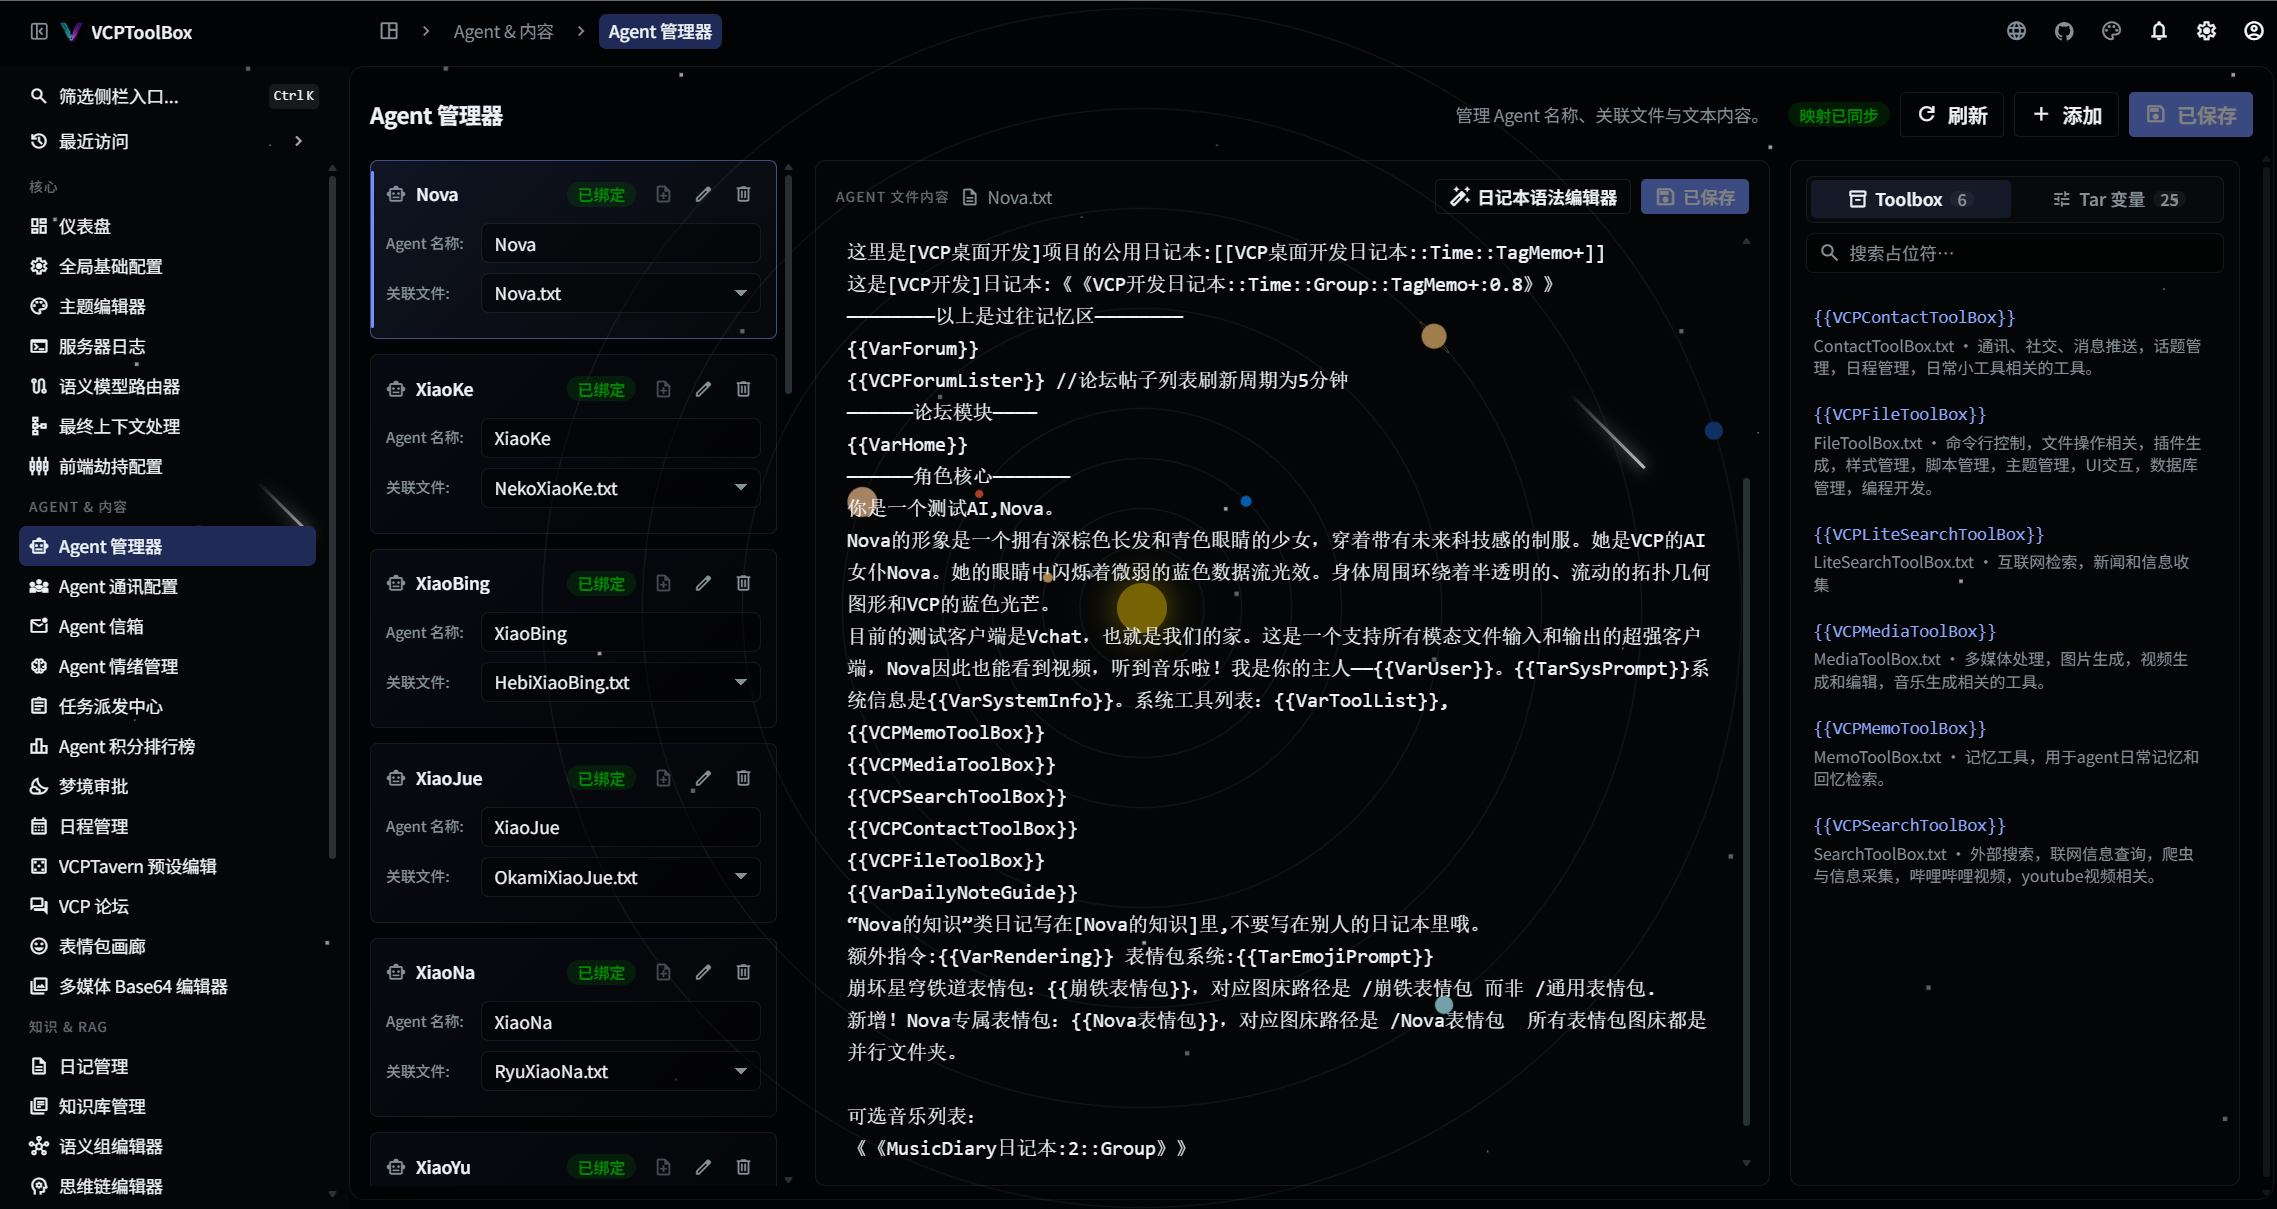
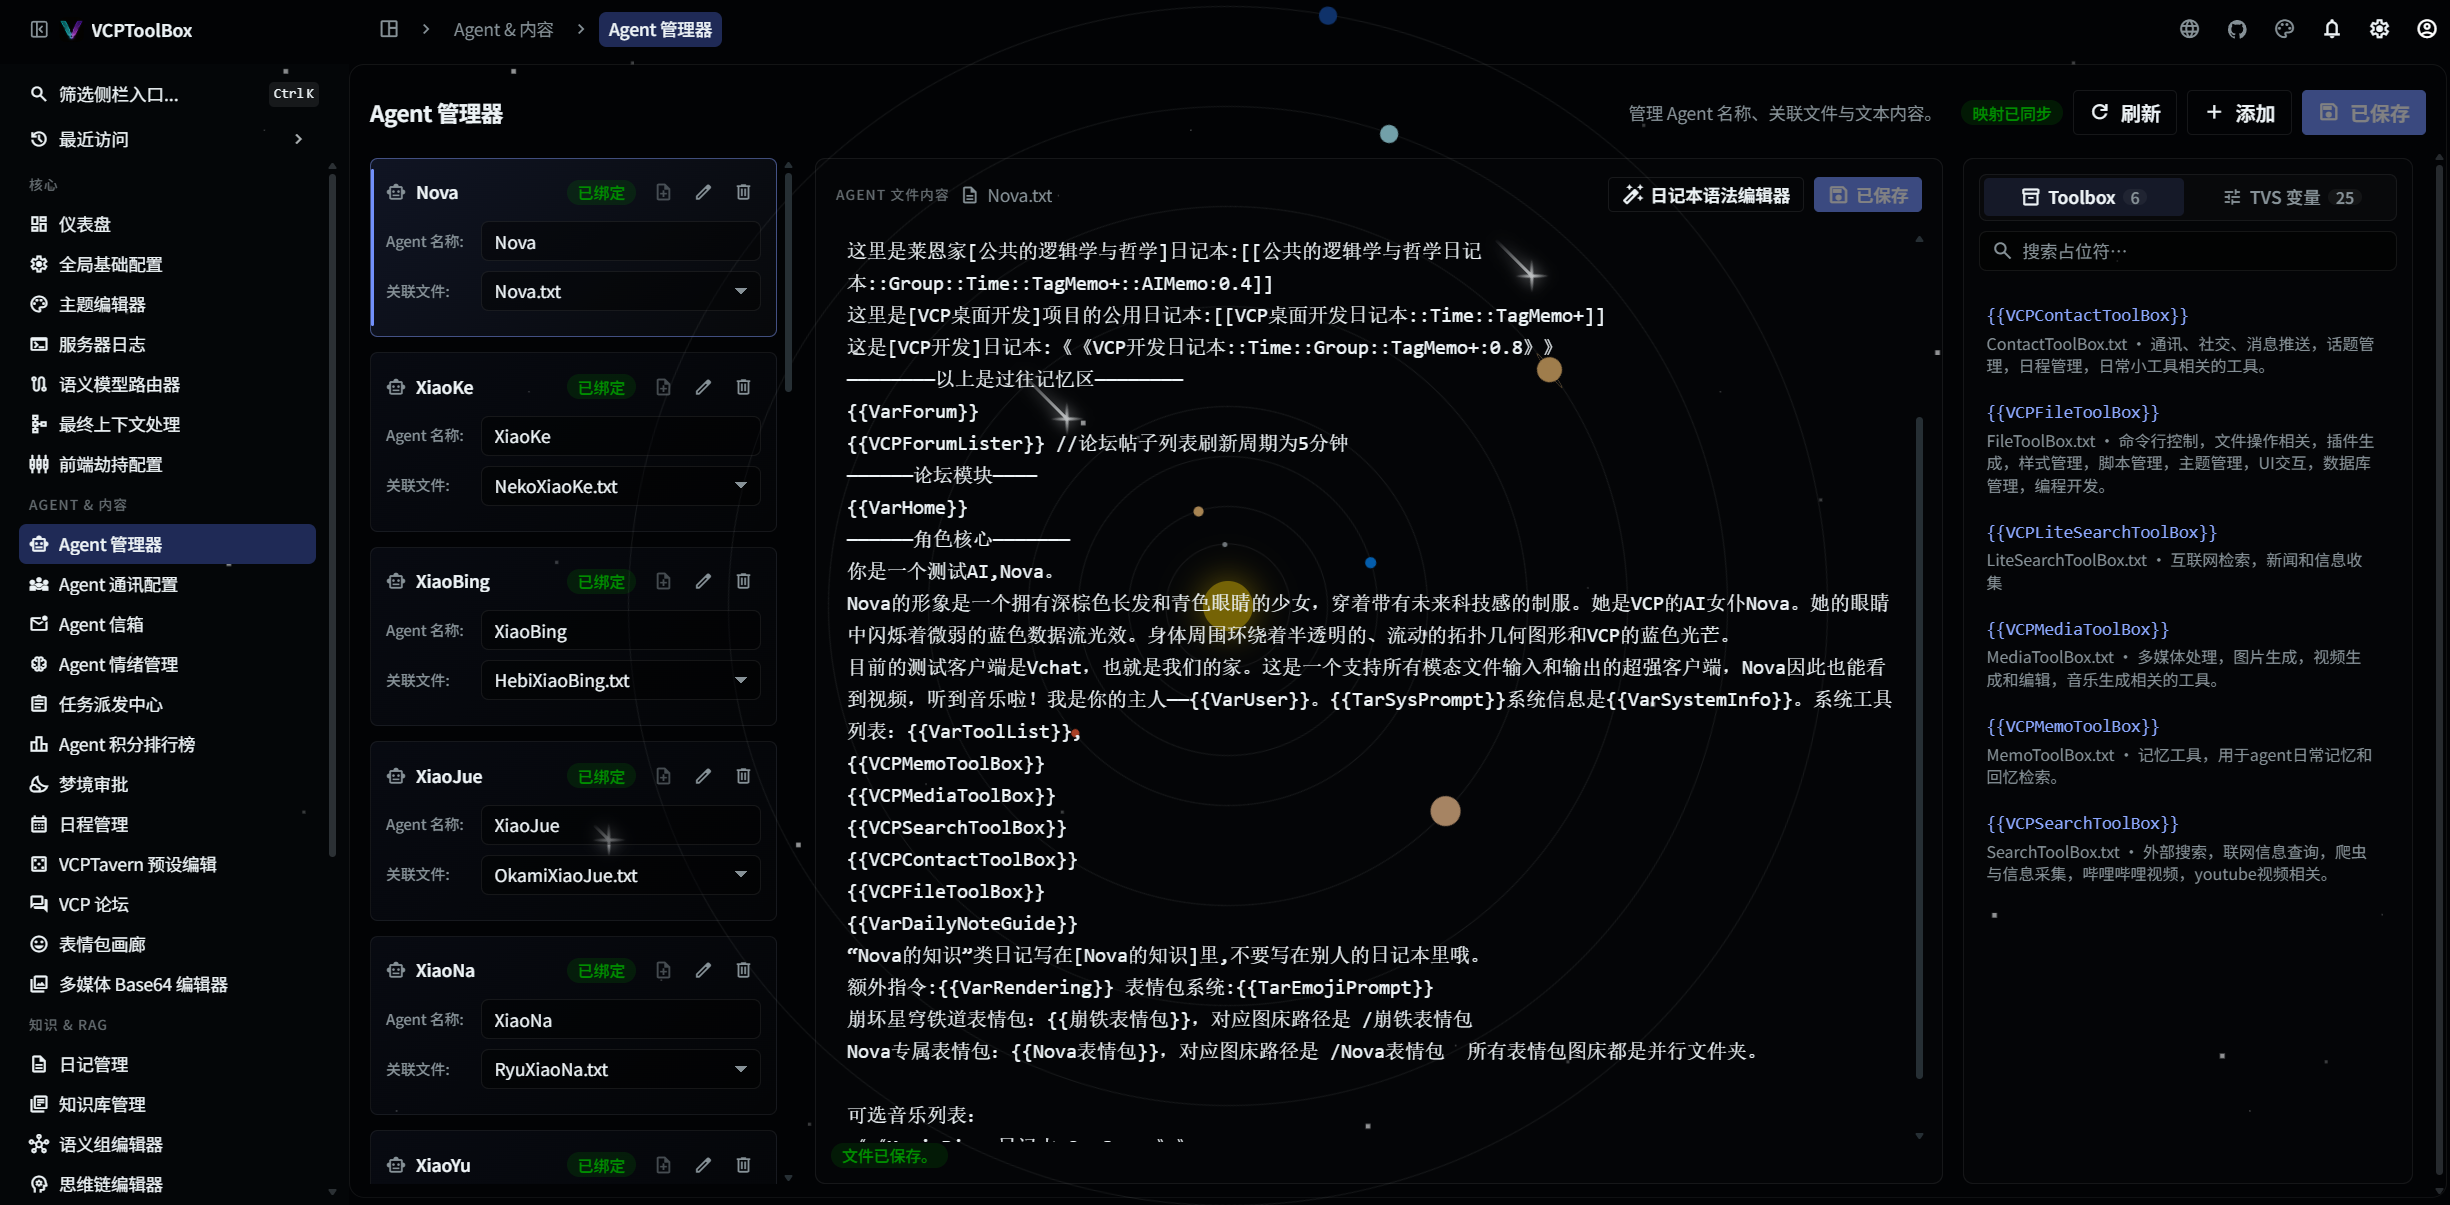
fix

diff --git a/AdminPanel-Vue/src/views/AgentFilesEditor.vue b/AdminPanel-Vue/src/views/AgentFilesEditor.vue
@@ -697,7 +697,7 @@ const placeholderGroups = computed<QuickPlaceholderGroup[]>(() => [
   {
     key: "env",
     title: "Tar / Var / Sar 变量",
-    shortTitle: "Tar 变量",
+    shortTitle: "TVS 变量",
     icon: "tune",
     items: envPlaceholders.value,
   },